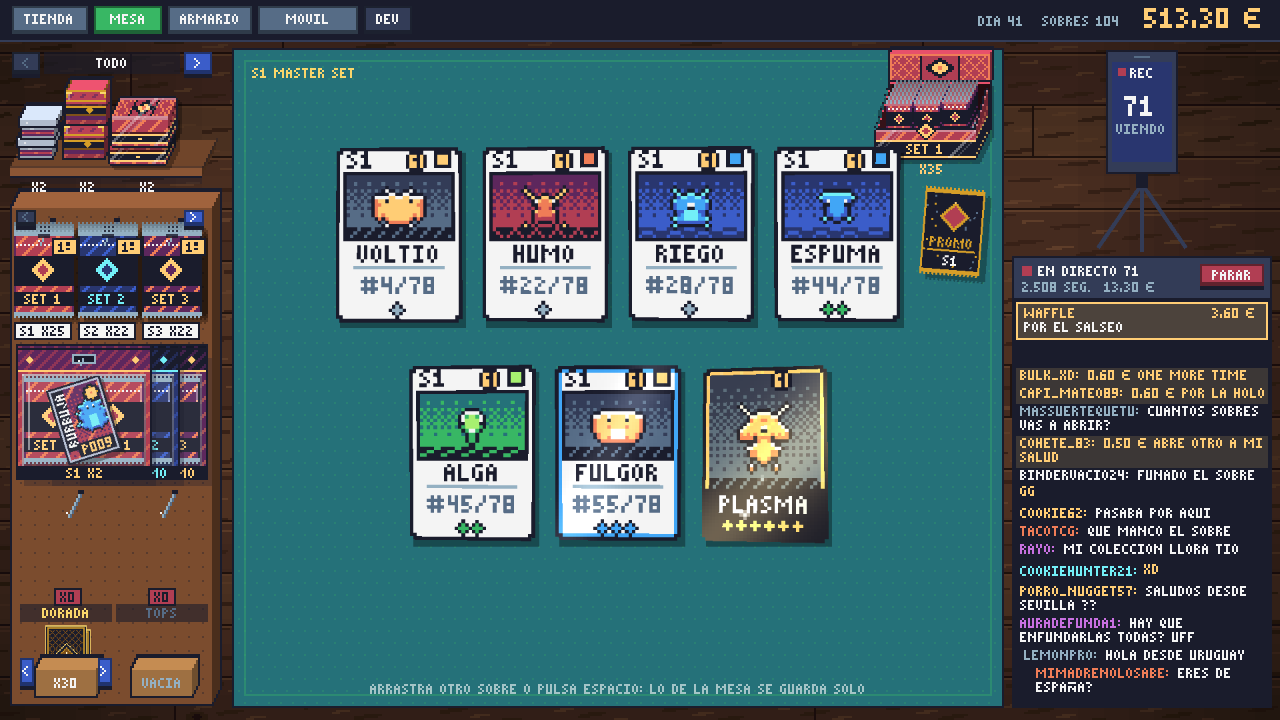
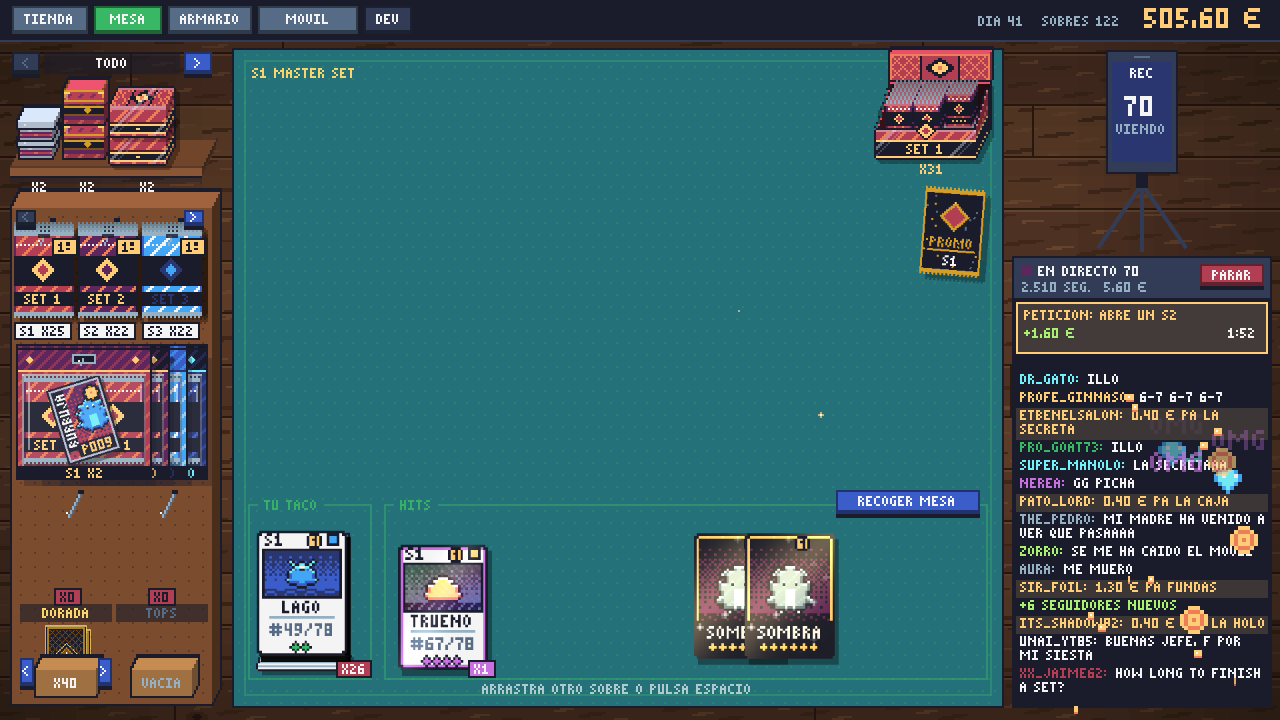
Bump to v0.11.1

diff --git a/CHANGELOG.md b/CHANGELOG.md
@@ -10,6 +10,38 @@ fase 3 = v0.7.2-0.7.4, fase 4 = v0.8.0-0.8.2. Desde la v0.9.0 ya no hay
 fases: se sigue el roadmap. La v0.9.0 se preparó como v0.8.3 y salió con
 otro número.
 
+## v0.11.1 - 2026-11-11 - Cartas en la mesa durante el directo
+
+- **En directo, las cartas se quedan en la mesa**, en zonas pintadas en el
+  tapete:
+  - **TU TACO** (abajo a la izquierda): lo que no es hit, en un taco con su
+    contador que coge 1 px de grosor cada 4 cartas (cian si van
+    enfundadas) y se le ve un poco el lado. Si no cabe en su recuadro,
+    asoma por arriba. Al dejar el ratón encima se abre en abanico (en el
+    móvil, tocándolo); tocar una carta la abre en INSPECCIONAR. La promo del
+    blíster y del tin también va aquí (o a hits).
+  - **HITS** (abajo): las holo, en su propio taquito con abanico; al lado,
+    en fila, lo de encima (alt holo, full art, secretas) y todas las
+    promos. Si no caben se solapan con la mejor delante. Se les puede soltar una funda o un top encima.
+  - Las cartas del taco y de los hits se pueden sacar al tapete; al abrir
+    el siguiente sobre vuelven a su sitio.
+  - **PEDIDOS** (en la venta, a la derecha): un hueco por comprador con su
+    post-it (nombre y progreso, "S1 2/3") y su taquito. Al completarse, el
+    taco se mete en un sobre acolchado y sale volando con lo cobrado; el
+    chat reacciona.
+- El taco y los hits se quedan aunque abras otro sobre o acabe el directo.
+  Para guardarlos, arrastra el taco (te lo llevas entero) o un hit a tu
+  caja: se van todos los de ese grupo. Si sueltas el taco en otro sitio,
+  vuelve al suyo. Sin directo, la mesa va como
+  siempre.
+- El primer directo de venta lo explica todo en cuatro frases.
+- Las cartas de la mesa tienen siempre el mismo tamaño: no cambian al
+  moverlas.
+- Las promos se enfundan siempre con el servicio de fundas.
+- En directo, el resumen del sobre y los textos de ayuda van más arriba, y
+  lo de la esquina (caja abierta, sobres de la ETB) se aparta para dejar
+  sitio a los pedidos.
+
 ## v0.11.0 - 2026-11-11 - Sets reordenados, calendario y colabs
 
 - **Sets en otro orden**, para que la subida de precio sea más suave al

diff --git a/README.md b/README.md
@@ -107,6 +107,8 @@ En PC se juega con ratón; en Android, igual pero tocando.
 
 **Directo**
 - En la mesa, ponle nombre al canal y dale a EMPEZAR DIRECTO. La tienda y el armario no lo cortan; ir al móvil o pasar el día, sí.
+- En directo, lo que abres se queda en el tapete: lo normal en TU TACO (pasa el ratón o tócalo para verlo en abanico) y de holo para arriba en HITS (las holo en su taquito y lo mejor en fila). Sus cartas se pueden sacar al tapete y vuelven solas con el siguiente sobre. Para guardarlo, arrastra el taco entero o un hit a tu caja: se va el grupo entero.
+- En la venta, cada comprador tiene su hueco en PEDIDOS con su post-it; al completarse, su taco sale solo en un sobre acolchado.
 
 ## Twitch
 
@@ -157,6 +159,7 @@ En `src/`:
 - `mesa.lua`, `apertura.lua`, `sobre.lua`, `caja.lua`, `productos.lua` y `encima.lua`: la mesa, abrir sobres, el dibujo de los sobres, la caja expositor, el dibujo de los demás productos sellados y lo que se pinta a resolución real (lo que se arrastra).
 - `muebles.lua` y `escritorio.lua`: estanterías, baldas, ganchos, blísters y álbumes en 3D, con la misma perspectiva que la caja, y la mesa de madera del fondo.
 - `directo.lua` y `emojis.lua`: el directo, su chat, los comandos y los emojis.
+- `zonas.lua`: TU TACO, HITS y PEDIDOS en el tapete durante el directo.
 - `twitch.lua`: el chat de Twitch por IRC (solo lectura, en un hilo aparte).
 - `movil.lua`, `grafica.lua` y `vendedores.lua`: el móvil con todas sus apps.
 - `tienda.lua`, `armario.lua`, `menu.lua`, `opciones.lua`, `reporte.lua` y `errores.lua`: el resto de pantallas.
